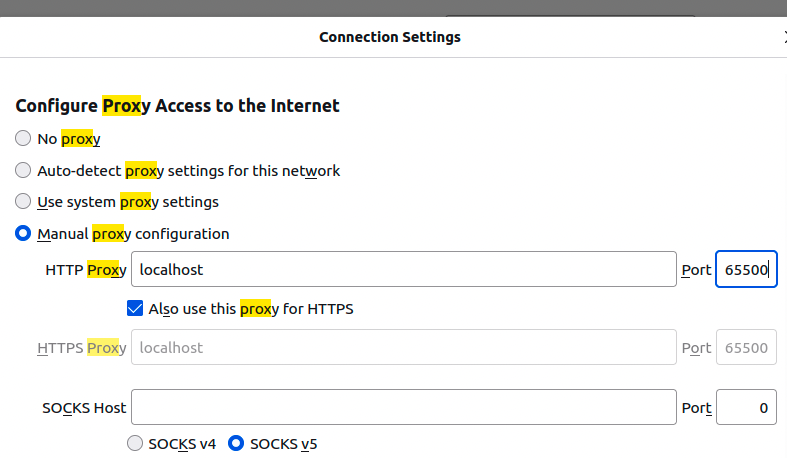
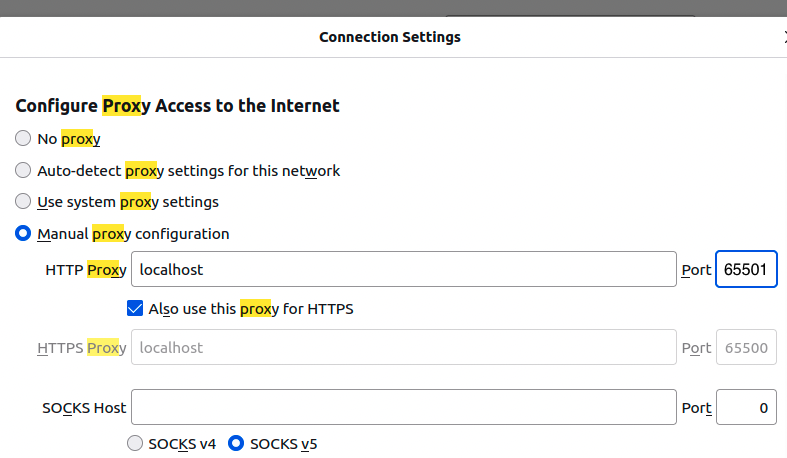
update wiki outdated images in zappdev

diff --git a/website/docs/build/build-build-with-pointnetwork.md b/website/docs/build/build-build-with-pointnetwork.md
@@ -48,7 +48,7 @@ In one terminal start all the services and watch the `website_owner` logs (NOTE:
 ```bash
 dclean
 point-zappdev up -d
-point-zappdev logs -f website_owner
+point_node
 ```
 
 In another terminal (to connect to the `point_node` node and deploy the site )
@@ -84,7 +84,7 @@ std::exception::what: You shall not have another CompilerStack aside me.
 
 ### Open the deployed site in Point Browser
 
-First create three profiles in Firefox to be able to test connecting to the different nodes quickly and easily. I suggest creating 3 profiles matching the names of the profiles set in your bash alias as mentioned above. NOTE: these profiles only need to be created once.
+First create two profiles in Firefox to be able to test connecting to the different nodes quickly and easily. I suggest creating two profiles matching the names of the profiles set in your bash alias as mentioned above. NOTE: these profiles only need to be created once.
 
 ### Create a Point Network Profile in Firefox
 
@@ -95,9 +95,8 @@ First create three profiles in Firefox to be able to test connecting to the diff
 
 2. Enter the profile name in the wizard
 
-Note we need to create 3 profiles so set the name to the profile you are currently creating
+Note we need to create two profiles so set the name to the profile you are currently creating
 
-* `storage_provider_docker`
 * `website_owner_docker`
 * `website_visitor_docker`
 
@@ -108,7 +107,6 @@ Note we need to create 3 profiles so set the name to the profile you are current
 
 Note each profile that you are creating requires a spefific proxy setting. Please configure as shown below based on the profile you are currently adding:
 
-* Profile `storage_provider_docker` : set proxy to `localhost:65500`
 * Profile `website_owner_docker` : set proxy to `localhost:65501`
 * Profile `website_visitor_docker` : set proxy to `localhost:65502`
 
@@ -123,12 +121,12 @@ Note the Point Network CA certificate is located in the [`client/proxy/certs`](h
 | ------------------------------------- |
 
 
-Now clone the [PointSDK](https://github.com/pointnetwork/pointsdk) repo, cd into it and run the `point-browser-docker-2` alias command like so:
+Now clone the [PointSDK](https://github.com/pointnetwork/pointsdk) repo, cd into it and run the `point-browser-owner` alias command like so:
 
 ```bash
 git clone git@github.com:pointnetwork/pointsdk.git
 cd pointsdk
-point-browser-docker-2
+point-browser-owner
 ```
 
 This should open the Point Browser with the `website_owner_docker` profile already configured to connect to the `website_owner` node and open [https://point](https://point). Now you can navigate to [https://point/identities](https://point/identities) and you should see the deployed pointsocial.z zapp listed, You can open it from there.
@@ -139,7 +137,7 @@ To test out interacting between different Point Network identities we can open a
 
 ```bash
 cd pointsdk
-point-browser-docker-3
+point-browser-visitor
 ```
 
 If you have added the above command as an alias and you have setup the Firefox profile you should see a new browser open that is connected to the `website_visitor` node. You can now post messages between each other on pointsocial!
@@ -159,7 +157,7 @@ Try to deploy the `store.z` app. To do so its just a matter of:
 
 **Docker Compose Logs**
 
-To follow the logs of *all* the containers simply run `point-zappdev logs -f` in the terminal. If you want to follow the logs of a specific container, hten specify the service name as well like so: `point-zappdev logs -f storage_provider` (to follow the logs of `storage_provider`)
+To follow the logs of *all* the containers simply run `point-zappdev logs -f` in the terminal. If you want to follow the logs of a specific container, hten specify the service name as well like so: `point-zappdev logs -f point_node` (to follow the logs of `website_owner`)
 
 **Docker Compose and Truffle Console**
 
